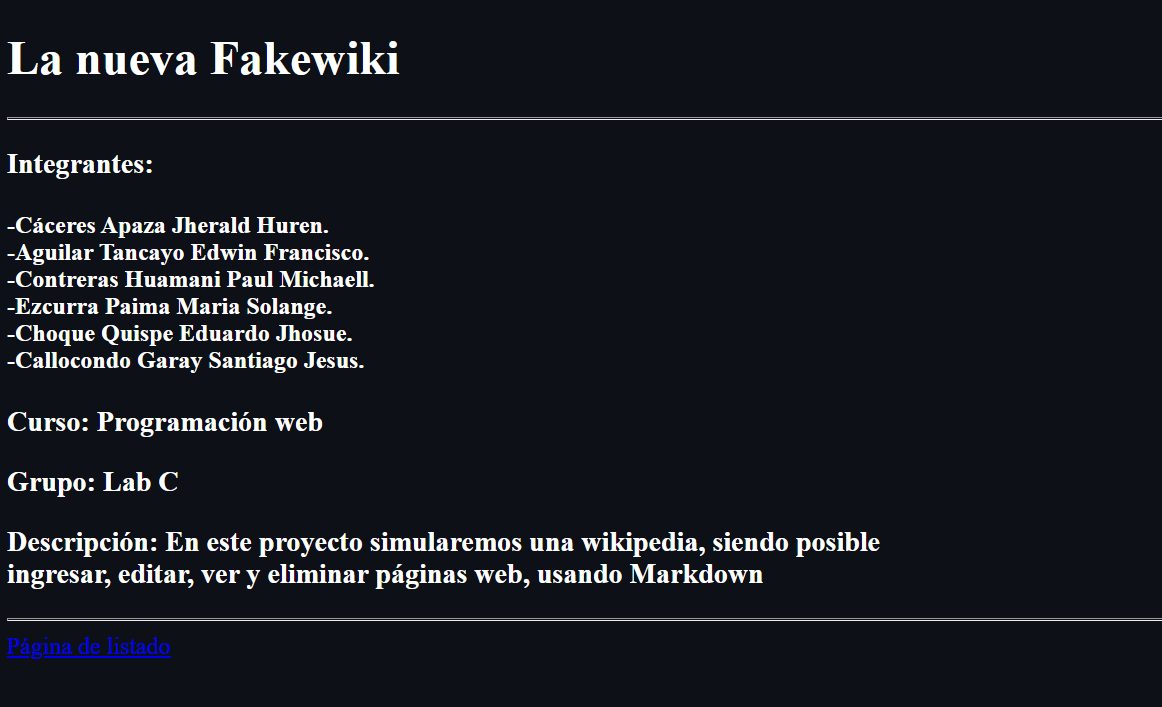
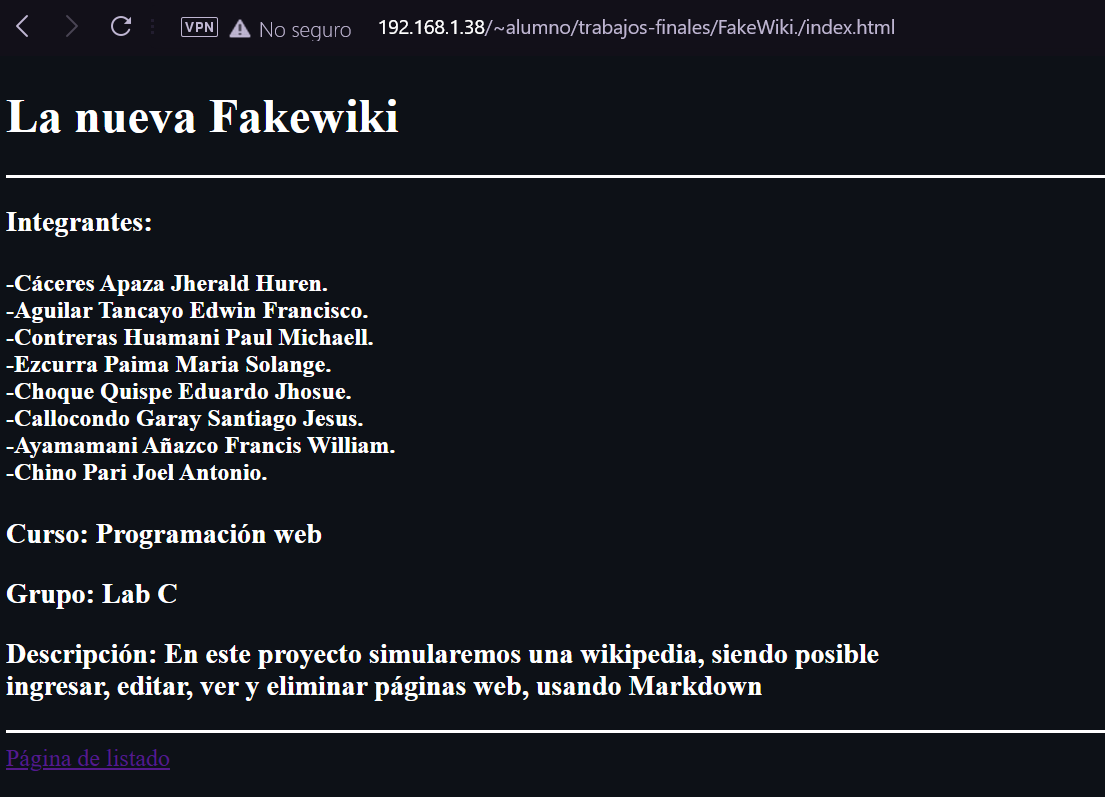
index

diff --git a/index.html b/index.html
@@ -15,6 +15,8 @@
           -Ezcurra Paima Maria Solange.     <br>
           -Choque Quispe Eduardo Jhosue.    <br>
           -Callocondo Garay Santiago Jesus. <br>
+          -Ayamamani Añazco Francis William. <br>
+          -Chino Pari Joel Antonio. <br>
     </h4>
     <h3>Curso: Programación web</h3>
     <h3>Grupo: Lab C</h4>
